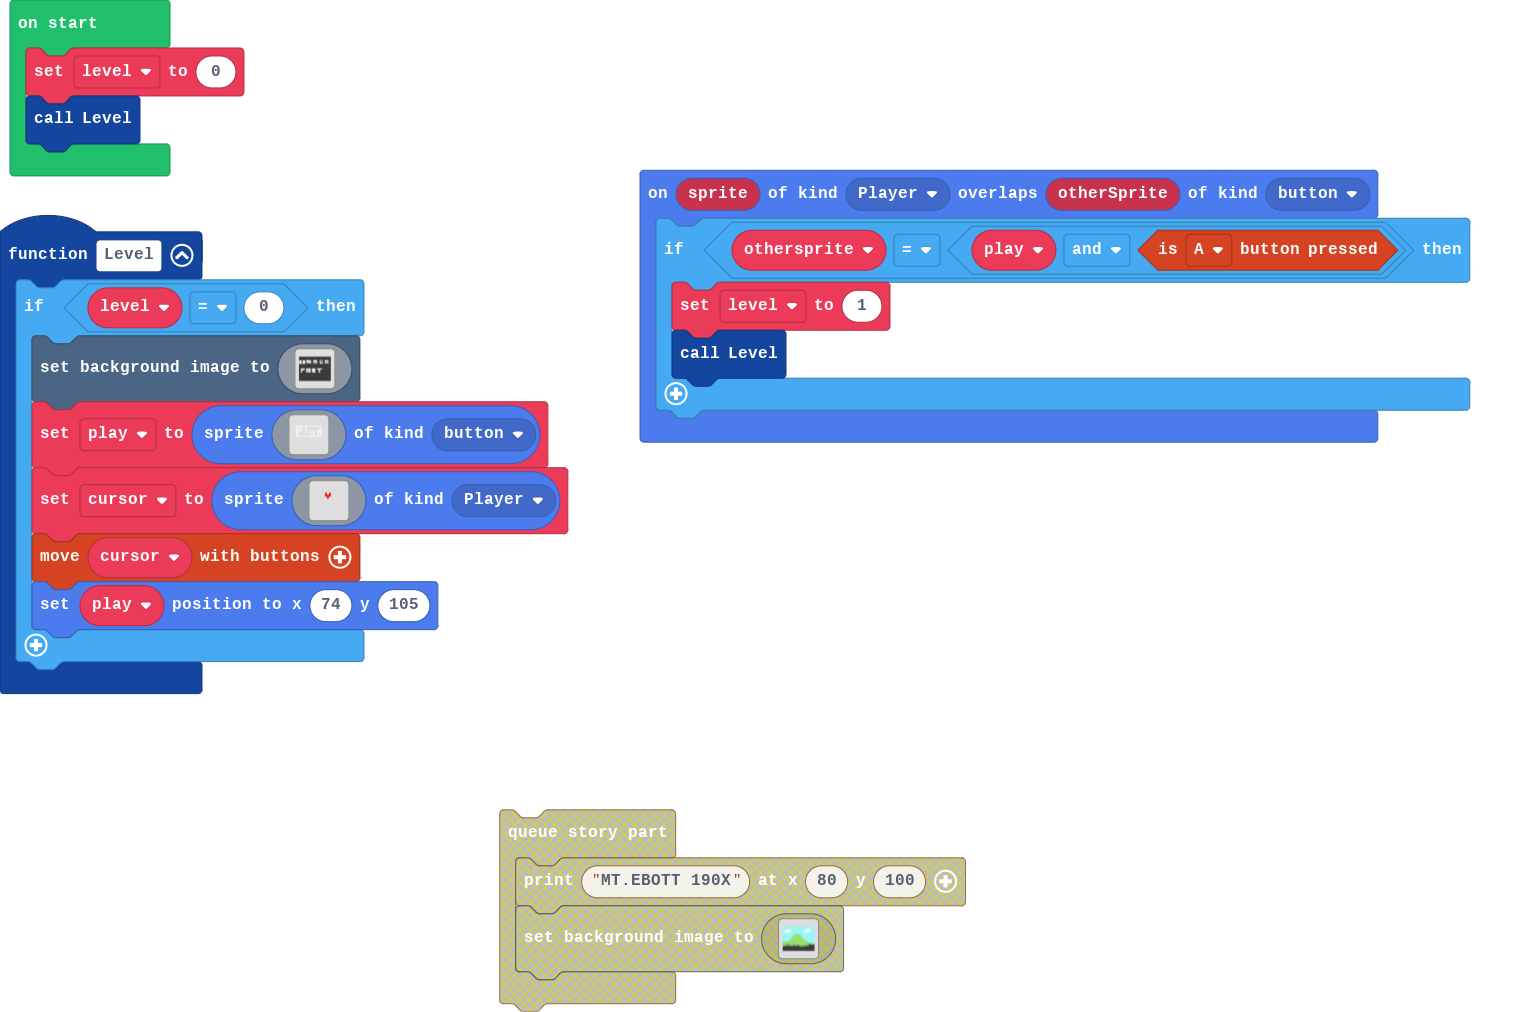
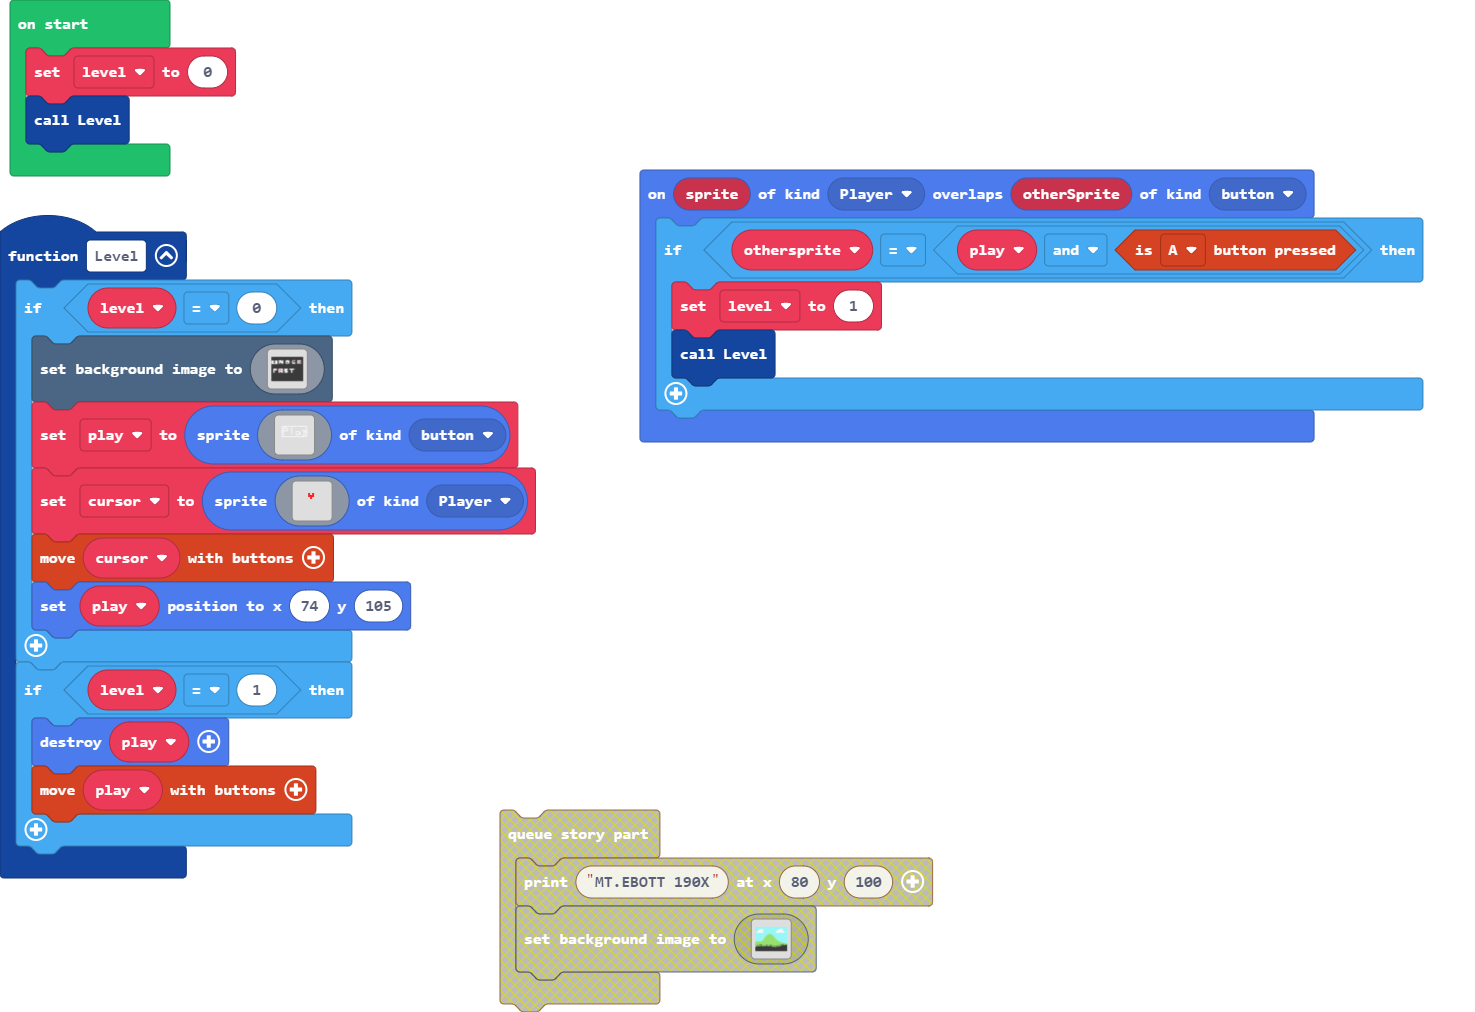
Update main.blocks, main.ts

diff --git a/main.ts b/main.ts
@@ -198,6 +198,10 @@ function Level () {
         controller.moveSprite(cursor)
         play.setPosition(74, 105)
     }
+    if (level == 1) {
+        play.destroy()
+        controller.moveSprite(play)
+    }
 }
 sprites.onOverlap(SpriteKind.Player, SpriteKind.button, function (sprite, otherSprite) {
     let othersprite = false
